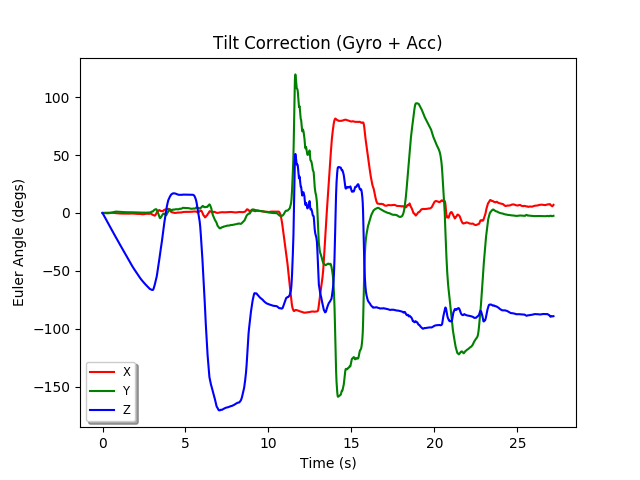
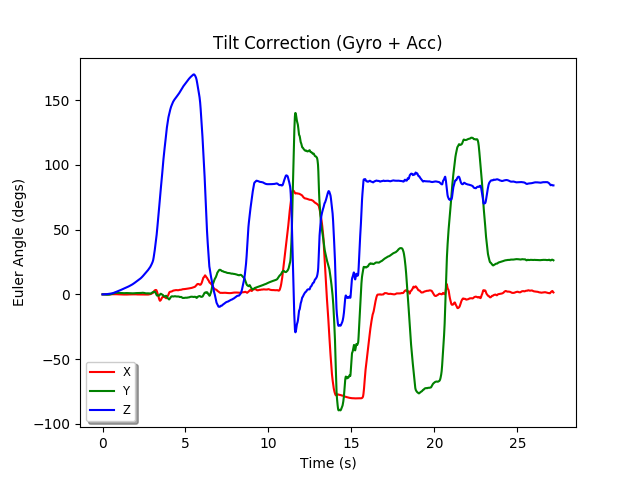
much better acc positioning, not sure if z seems to be drifting though

diff --git a/data_corrector.py b/data_corrector.py
@@ -47,8 +47,8 @@ def sanitize_imu_data(data):
     print("> Successfully normalized data.")
     return data 
 
-def euler_to_qtrn(axis, angle):
-    """converts euler angles (axis-angle repr.) ([x y z], angle) to a quaternion [a b c d]"""
+def axis_angle_to_qtrn(axis, angle):
+    """converts axis-angle repr. ([x y z], angle) to a quaternion [a b c d]"""
     (x, y, z) = axis
     a = np.cos(angle/2)
     b = np.sin(angle/2) * x
@@ -56,13 +56,31 @@ def euler_to_qtrn(axis, angle):
     d = np.sin(angle/2) * z
     return np.array([a, b, c, d])
 
+def euler_to_qtrn(angles):
+    """converts euler angles [x, y, z] to a quaternion"""
+    (x, y, z) = angles
+    c_1 = np.cos(y/2)
+    c_2 = np.cos(x/2)
+    c_3 = np.cos(z/2)
+    s_1 = np.sin(y/2)
+    s_2 = np.sin(x/2)
+    s_3 = np.sin(z/2)
+    c1c2 = c_1*c_2
+    s1s2 = s_1*s_2
+    a = c1c2*c_3 - s1s2*s_3
+    b = c1c2*s_3 + s1s2*c_3
+    c = s_1*c_2*c_3 + c_1*s_2*s_3
+    d = c_1*s_2*c_3 - s_1*c_2*s_3
+    return np.array([a, b, c, d])
+
+
 def reading_to_qtrn(reading, prev_sample_time):
     """converts a numpy euler rotation sample [time x y z] and prev sample time to a quaternion array [a b c d]"""
     sample_time = float(reading[0] - prev_sample_time)
     sample_time = sample_time if sample_time>0 else (1/256) # first reading assumes 256Hz
     rot_angle = np.linalg.norm(reading[1:]) * sample_time
     rot_axis = np.repeat(1/np.linalg.norm(reading[1:]),3) * reading[1:]
-    return euler_to_qtrn(rot_axis, rot_angle)
+    return axis_angle_to_qtrn(rot_axis, rot_angle)
 
 def qtrn_to_euler(qtrn):
     """converts a numpy quaternion array [a b c d] to a raw euler angle array [x y z]"""
@@ -70,7 +88,7 @@ def qtrn_to_euler(qtrn):
     x = np.arcsin(2*b*c + 2*d*a)
     y = np.arctan2(2*c*a-2*b*d, 1 - 2*(c**2) - 2*(d**2))
     z = np.arctan2(2*b*a-2*c*d , 1 - 2*(b**2) - 2*(d**2))
-    return np.array([x,y,z])
+    return np.array([x, y, z])
 
 def qtrn_conj(qtrn):
     """computes the conjugate of a quaternion, passed as a numpy array [a b c d]"""
@@ -126,9 +144,12 @@ def gyro_acc_positioning(imu_data):
     print("> Start orientation:",curr_pos)
     gyro_range = range(0,4)
     acc_range = range(4,7)
-    #ref_vector = np.array([0,1,0], dtype=np.float32)
 
-    # time,x,y,z
+    # z is clearly the up vector based on the raw accelerometer readings
+    up_vec = np.array([0,0,0,1])
+    print("up vec:",up_vec)
+    
+    # [[time,x,y,z]]
     gyro_data = []
 
     prev_sample_time = 0.0
@@ -143,18 +164,24 @@ def gyro_acc_positioning(imu_data):
         ### PITCH/TILT CORRECTION
         ### convert acc data to the global frame
         # (this is the inverse of the head orientation!)
-        # therefore, we compute q^-1•p•q rather than q•p•q^-1
-        acc_qtrn = np.insert(point[acc_range], 0, 0)
-        acc_qtrn = qtrn_mult(qtrn_mult(qtrn_conj(curr_pos), acc_qtrn), curr_pos)
+        # therefore, we compute q^{-1}•p•q rather than q•p•q^{-1}
+        #first_acc = qtrn_mult(qtrn_mult(qtrn_conj(curr_pos), first_acc), curr_pos)
+        acc_qtrn = np.insert(point[acc_range], 0, 0)# - first_acc
+        acc_qtrn = qtrn_mult(qtrn_mult(curr_pos, acc_qtrn), qtrn_conj(curr_pos))
+        acc_vec = acc_qtrn[1:]
+        
+        #up_vec = qtrn_mult(qtrn_mult(qtrn_conj(curr_pos), up_vec), curr_pos)
         ### calculate the tilt error
-        # x = index 1, z = index 3 (we disregard the first element, it is not needed for rotating a simple point as we just rotated acc to the global frame)
-        tilt_error_axis = np.array([acc_qtrn[3], 0.0, -acc_qtrn[1]])
-        cos_ang = np.dot(np.array([0,1,0]), acc_qtrn[1:])
+        # x = index 0, z = index 2
+        tilt_error_axis = np.array([acc_vec[2], 0.0, -acc_vec[0]])
+        cos_ang = np.dot(up_vec[1:], acc_vec)
+        # manage rounding errors, there should only be little deviation here
         cos_ang = cos_ang if cos_ang > -1 else -1
-        cos_ang = cos_ang if cos_ang < 1 else 1
+        cos_ang = cos_ang if cos_ang < +1 else +1
         tilt_error_angle = np.arccos(cos_ang)
+        print("error angle:",tilt_error_angle)
         ### Repair tilt using the comp filter
-        comp_filter = euler_to_qtrn(tilt_error_axis, -ALPHA_ACC*tilt_error_angle)
+        comp_filter = axis_angle_to_qtrn(tilt_error_axis, ALPHA_ACC*tilt_error_angle)
         # fix our current estimated position using acceleration data
         curr_pos = qtrn_mult(curr_pos, comp_filter)
 
@@ -214,7 +241,7 @@ def gyro_acc_mag_positioning(imu_data):
         cos_ang = cos_ang if cos_ang < 1 else 1
         tilt_error_angle = np.arccos(cos_ang)
         ### Repair tilt using the comp filter
-        comp_filter = euler_to_qtrn(tilt_error_axis, -ALPHA_ACC*tilt_error_angle)
+        comp_filter = axis_angle_to_qtrn(tilt_error_axis, -ALPHA_ACC*tilt_error_angle)
         # fix our current estimated position using acceleration data
         curr_pos = qtrn_mult(comp_filter, curr_pos)
 
@@ -231,7 +258,7 @@ def gyro_acc_mag_positioning(imu_data):
         yaw_diff = yaw_angle_meas - yaw_angle_real
         # repair yaw drift using complementary filter
         tilt_yaw_axis = np.array([0, 1, 0])
-        comp_filter = euler_to_qtrn(tilt_yaw_axis, -ALPHA_YAW*yaw_diff)
+        comp_filter = axis_angle_to_qtrn(tilt_yaw_axis, -ALPHA_YAW*yaw_diff)
         curr_pos = qtrn_mult(comp_filter, curr_pos)
 
         gyro_data.append([prev_sample_time] + curr_pos.tolist())
@@ -312,7 +339,8 @@ def save_gyro_fig(name, title, data):
     z_data = []
     for point in data:
         time_data.append(point[0])
-        x, y, z = qtrn_to_euler(point[1:])
+        # convert the rotation quaternion to euler angles
+        x, y, z = qtrn_to_euler(point[1:5])
         x_data.append(x/(np.pi/180))
         y_data.append(y/(np.pi/180))
         z_data.append(z/(np.pi/180))
@@ -341,10 +369,10 @@ def main():
     save_unmodified_figs(raw_data)
     imu_data = sanitize_imu_data(raw_data)
 
-    gyro_data = gyro_dead_reckoning(imu_data)
+    gyro_data = gyro_dead_reckoning(np.array(imu_data, copy=True))
     save_gyro_fig("gyro_dead", "Dead-Reckoning (Gyro)", gyro_data)
 
-    acc_data = gyro_acc_positioning(imu_data)
+    acc_data = gyro_acc_positioning(np.array(imu_data, copy=True))
     save_gyro_fig("gyro_acc", "Tilt Correction (Gyro + Acc)", acc_data)
     
     mag_data = gyro_acc_mag_positioning(imu_data)
